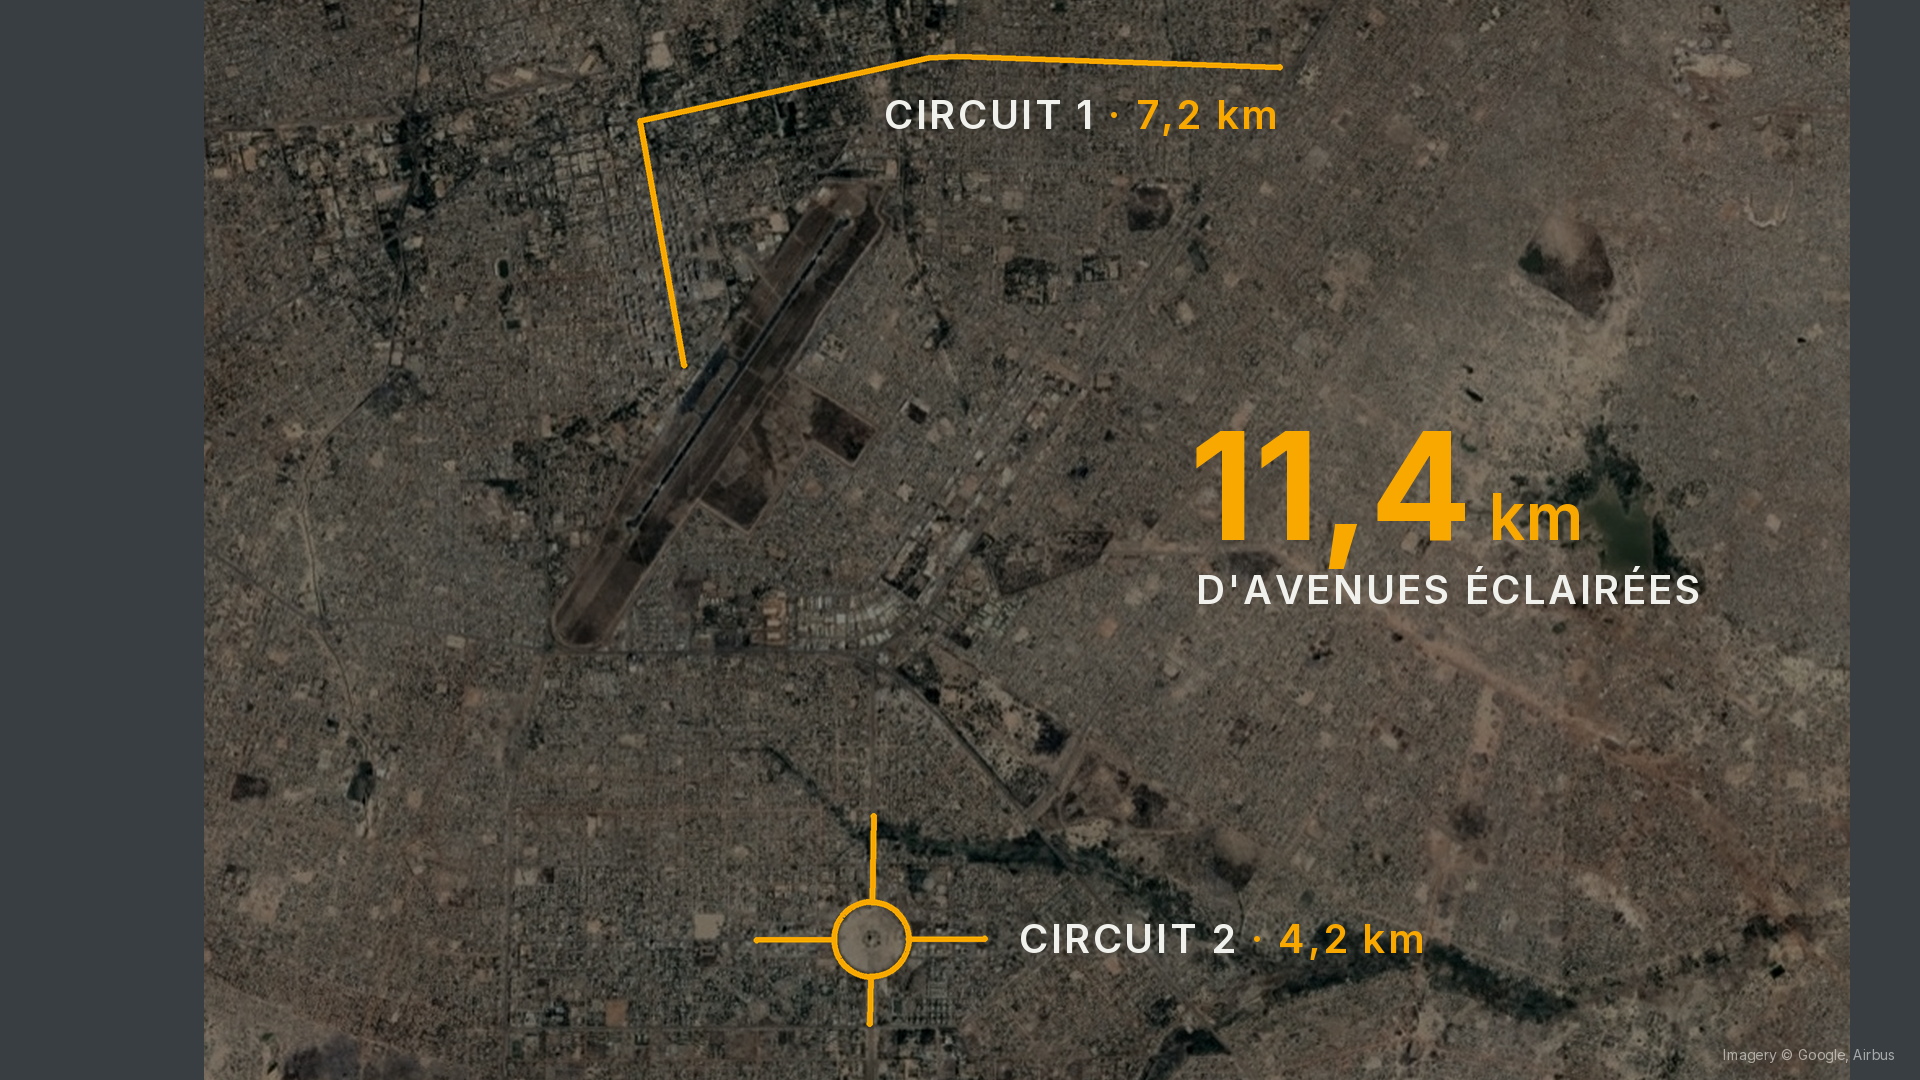
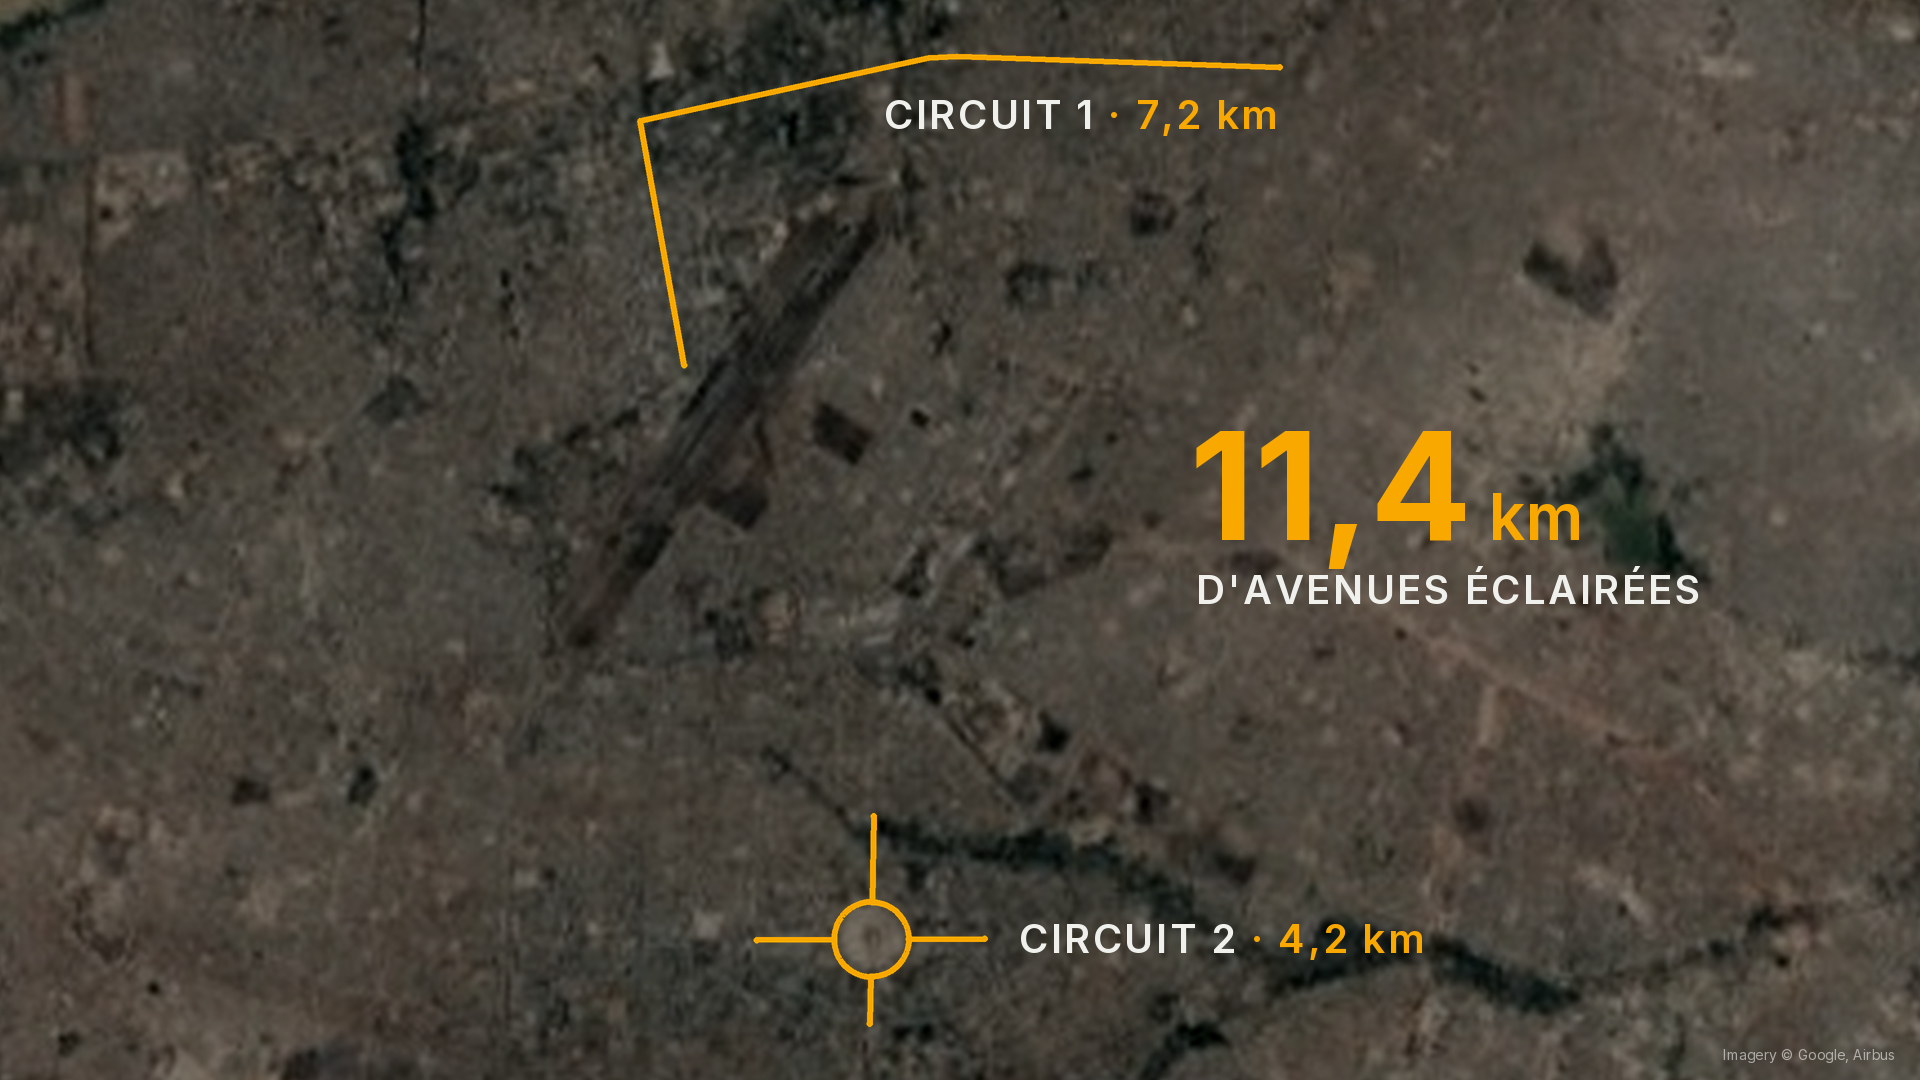
Ouverture : fond provisoire élargi (36 × 26 km) et calage prêt pour la pleine résolution
La deuxième capture couvre toute la zone utile : plus de bandes grises,
et la fenêtre est remplie dès son ouverture. Reçue en 1024 px par le chat
(36 m/px pour un cadre à 8 m/px), elle reste floue : en attente du fichier
d'origine.

- caler_fond.py : le contrôle porte sur l'écart de calage (> 3 px = vue
  inclinée) et non plus sur l'écart de rotation entre les axes, qu'une
  affine corrige. Sous-échantillonne les pixels rouges d'une capture en
  pleine résolution.
- render_circuits.py : fond par défaut fonds/ouaga_large_1024.jpg ;
  l'ancien fond, trop petit, est retiré.

Claude-Session: https://claude.ai/code/session_01VVPbotAmfqK5e6d5uazzzR

diff --git a/ouverture/caler_fond.py b/ouverture/caler_fond.py
@@ -30,6 +30,8 @@ red = (A[..., 0] > 150) & (A[..., 1] < 100) & (A[..., 2] < 100) & (np.abs(A - B)
 ry, rx = np.nonzero(red)
 P = np.stack([rx, ry], 1).astype(float)
 print(f"capture {w}x{h} ; {len(P)} pixels de tracé rouge")
+if len(P) > 20000:                       # capture en pleine résolution : un pixel sur k suffit au calage
+    P = P[::int(np.ceil(len(P) / 20000))]
 if len(P) < 200:
     sys.exit("trop peu de pixels rouges : les tracés sont-ils bien affichés sur la première capture ?")
 
@@ -56,9 +58,9 @@ weight = np.concatenate([np.full(len(densify(l, 10)), 1.0 / n) for n, lines in
 def nearest(M):
     Q = np.c_[G, np.ones(len(G))] @ M
     idx = np.empty(len(Q), int); dist = np.empty(len(Q))
-    for k in range(0, len(Q), 512):
-        d = ((Q[k:k + 512, None, :] - P[None, :, :]) ** 2).sum(-1)
-        idx[k:k + 512] = d.argmin(1); dist[k:k + 512] = np.sqrt(d.min(1))
+    for k in range(0, len(Q), 128):
+        d = ((Q[k:k + 128, None, :] - P[None, :, :]) ** 2).sum(-1)
+        idx[k:k + 128] = d.argmin(1); dist[k:k + 128] = np.sqrt(d.min(1))
     return idx, dist
 for seuil in (80, 50, 30, 20, 12, 8, 5, 3):
     for it in range(15):
@@ -77,8 +79,10 @@ print(f"calage : écart médian {np.median(dist):.2f} px, 95 % sous {np.percenti
 ax, ay = M[0], M[1]          # dérivées de (x, y) par rapport à lon et à lat
 rot_lon = np.degrees(np.arctan2(ax[1], ax[0])); rot_lat = np.degrees(np.arctan2(ay[0], -ay[1]))
 print(f"rotation de la vue : {rot_lon:.2f}° (axe est-ouest), {rot_lat:.2f}° (axe nord-sud)")
-if abs(rot_lon - rot_lat) > 0.3:
-    sys.exit("les deux axes ne tournent pas d'autant : vue inclinée ? Remettre la vue à plat (touche U) et refaire les captures")
+# Une vue inclinée déforme l'image en trapèze, ce qu'une affine ne rattrape pas : l'écart de calage
+# grandit alors. Tant qu'il reste faible, l'affine corrige aussi le léger cisaillement.
+if dist.max() > 3:
+    sys.exit("calage imprécis (écart > 3 px) : vue inclinée ? Remettre la vue à plat (touche U) et refaire les captures")
 
 # On redresse la capture nord en haut : la plus grande emprise lon/lat contenue dans l'image,
 # rééchantillonnée à la même résolution. Chaque pixel de sortie va chercher son pixel source par M.

diff --git a/ouverture/render_circuits.py b/ouverture/render_circuits.py
@@ -33,7 +33,7 @@ OUAGA = np.array([-1.5197, 12.3714])             # le point du globe (globe.html
 MARGE_M = 450                                    # marge autour des deux circuits, en mètres
 OUT = ROOT / "rendus"
 apercu = "--apercu" in sys.argv
-fond = ROOT / (sys.argv[sys.argv.index("--fond") + 1] if "--fond" in sys.argv else "fonds/ouaga_deux_circuits_1024.jpg")
+fond = ROOT / (sys.argv[sys.argv.index("--fond") + 1] if "--fond" in sys.argv else "fonds/ouaga_large_1024.jpg")
 emp = json.loads(fond.with_suffix(".json").read_text(encoding="utf-8"))
 chiffres = json.loads((ROOT / "chiffres_circuits.json").read_text(encoding="utf-8"))
 km = lambda v: f"{v:.1f}".replace(".", ",")

diff --git a/CLAUDE.md b/CLAUDE.md
@@ -16,7 +16,7 @@ Contexte du projet pour Claude Code. Lis ce fichier en entier avant toute action
 | Montage V2 (53 s, 27 coupes sur 120 BPM) | ✅ livré | `film_eclairage_v2.mp4` (racine du dossier), script `scripts/montage_v2.py` |
 | Piste son provisoire générée par code | ✅ | `son/v2_son.wav`, script `scripts/son_v2.py` |
 | Ouverture, séquence 1 : globe → Ouagadougou (6 s) | ✅ | `rendus/ouverture_globe.mp4`, script `ouverture/render_globe.py` |
-| Ouverture, séquence 2 : circuits (9 s) | ⏳ planche faite sur une capture provisoire (trop petite) ; rendu en attente d'une capture plus large | `ouverture/render_circuits.py`, fond calé par `ouverture/caler_fond.py`, géométrie `ouverture/circuits.py`, chiffres `chiffres_circuits.json` |
+| Ouverture, séquence 2 : circuits (9 s) | ⏳ planche faite sur une capture provisoire (bon cadrage, mais reçue en 1024 px par le chat : trop floue) ; rendu en attente de la capture en pleine résolution | `ouverture/render_circuits.py`, fond calé par `ouverture/caler_fond.py`, géométrie `ouverture/circuits.py`, chiffres `chiffres_circuits.json` |
 | 5 gros plans produit à caméra fixe + 1 plan de vie | ⏳ à générer dans Magnific | voir « À produire » |
 | Montage V3 (nouvelle structure ci-dessous) | ⏳ planche faite, rendu complet en attente de la séquence 2 | `scripts/montage_v3.py` |
 
